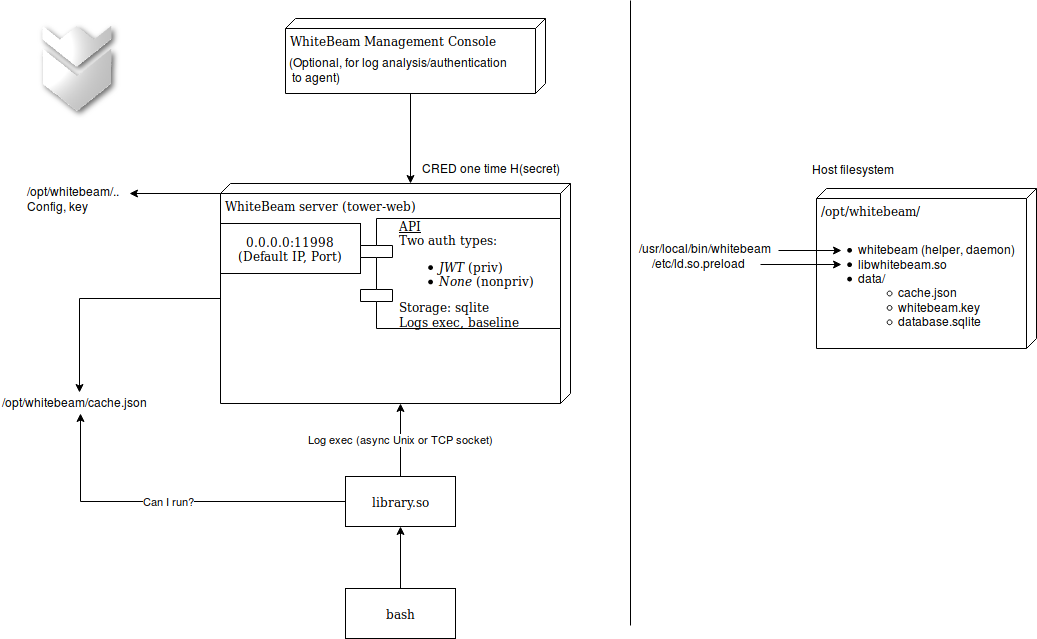
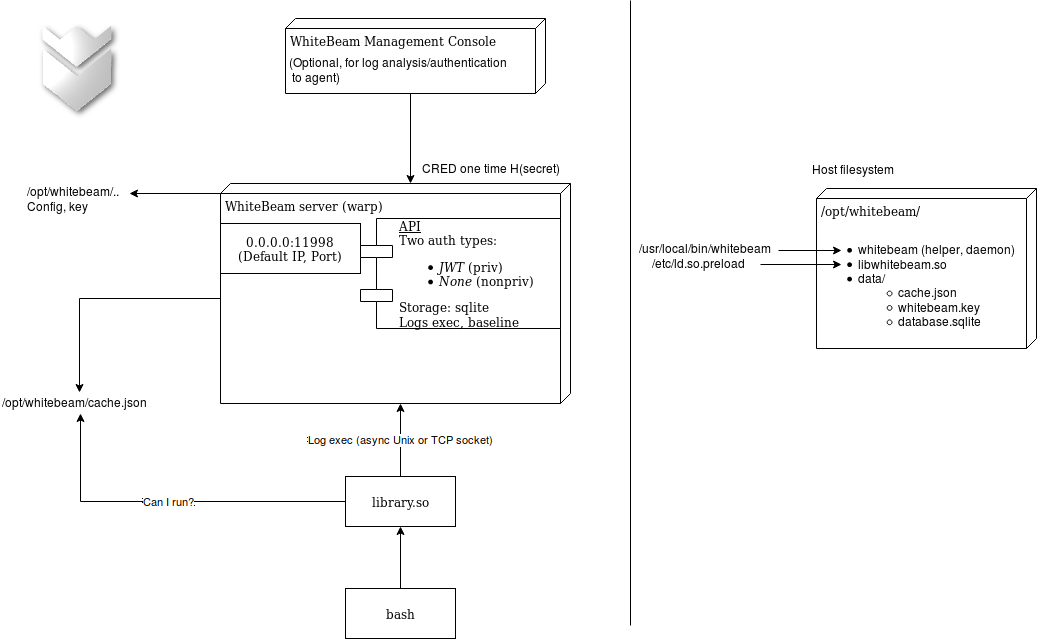
Restructure and implement basic server

diff --git a/src/main.rs b/src/main.rs
@@ -1,8 +1,6 @@
-// Service provided by a module under main.rs:
-// https://raw.githubusercontent.com/carllerche/tower-web/master/examples/json.rs
-extern crate clap;
-
 use clap::{Arg, App, AppSettings};
+
+pub mod application;
 
 fn main() {
     // TODO: Only view certain options unless user is authenticated
@@ -49,4 +47,19 @@ fn main() {
                  .takes_value(false)
                  .help("View status of the WhiteBeam client"))
         .get_matches();
+
+    if matches.is_present("start") {
+        run_start();
+    } else if matches.is_present("status") {
+        run_status();
+    }
+}
+
+fn run_start() {
+    println!("Starting WhiteBeam server");
+    application::common::api::serve();
+}
+
+fn run_status() {
+    println!("OK");
 }

diff --git a/src/application/common/api/mod.rs b/src/application/common/api/mod.rs
@@ -1,0 +1,6 @@
+use warp::Filter;
+
+pub fn serve() {
+    let routes = warp::any().map(|| "Hello, World!");
+    warp::serve(routes).run(([0, 0, 0, 0], 11998));
+}

diff --git a/src/library/platforms/linux/mod.rs b/src/library/platforms/linux/mod.rs
@@ -1,4 +1,4 @@
-// Load hook
+// Load OS-specific modules
 #[macro_use]
 mod hook;
 

diff --git a/src/lib.rs b/src/lib.rs
@@ -1,2 +1,2 @@
 #[macro_use]
-pub mod platforms;
+pub mod library;

diff --git a/src/library/mod.rs b/src/library/mod.rs
@@ -1,0 +1,2 @@
+#[macro_use]
+pub mod platforms;

diff --git a/src/application/common/mod.rs b/src/application/common/mod.rs
@@ -1,0 +1,2 @@
+// Load API
+pub mod api;

diff --git a/src/application/mod.rs b/src/application/mod.rs
@@ -1,0 +1,1 @@
+pub mod common;
